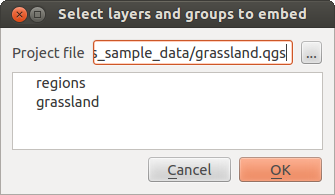
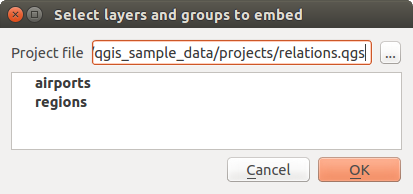
New reference to data set project fix #476

Changed region(s): [[0.0, 0.1546, 1.0, 1.0], [0.0, 0.0, 1.0, 0.1237], [0.0597, 0.4948, 0.2985, 0.5876]]

diff --git a/source/docs/user_manual/introduction/general_tools.rst b/source/docs/user_manual/introduction/general_tools.rst
@@ -743,9 +743,9 @@ The following dialog allows you to embed layers from other projects. Here is a
 small example:
 
 #. Press |browsebutton| to look for another project from the Alaska dataset.
-#. Select the project file :file:`grassland`. You can see the content of the
+#. Select the project file :file:`relations.qgs`. You can see the content of the
    project (see figure_embed_dialog_).
-#. Press :kbd:`Ctrl` and click on the layers :file:`grassland` and
+#. Press :kbd:`Ctrl` and click on the layers :file:`airports` and
    :file:`regions`. Press **[OK]**. The selected layers are embedded in the map
    legend and the map view now.
 
